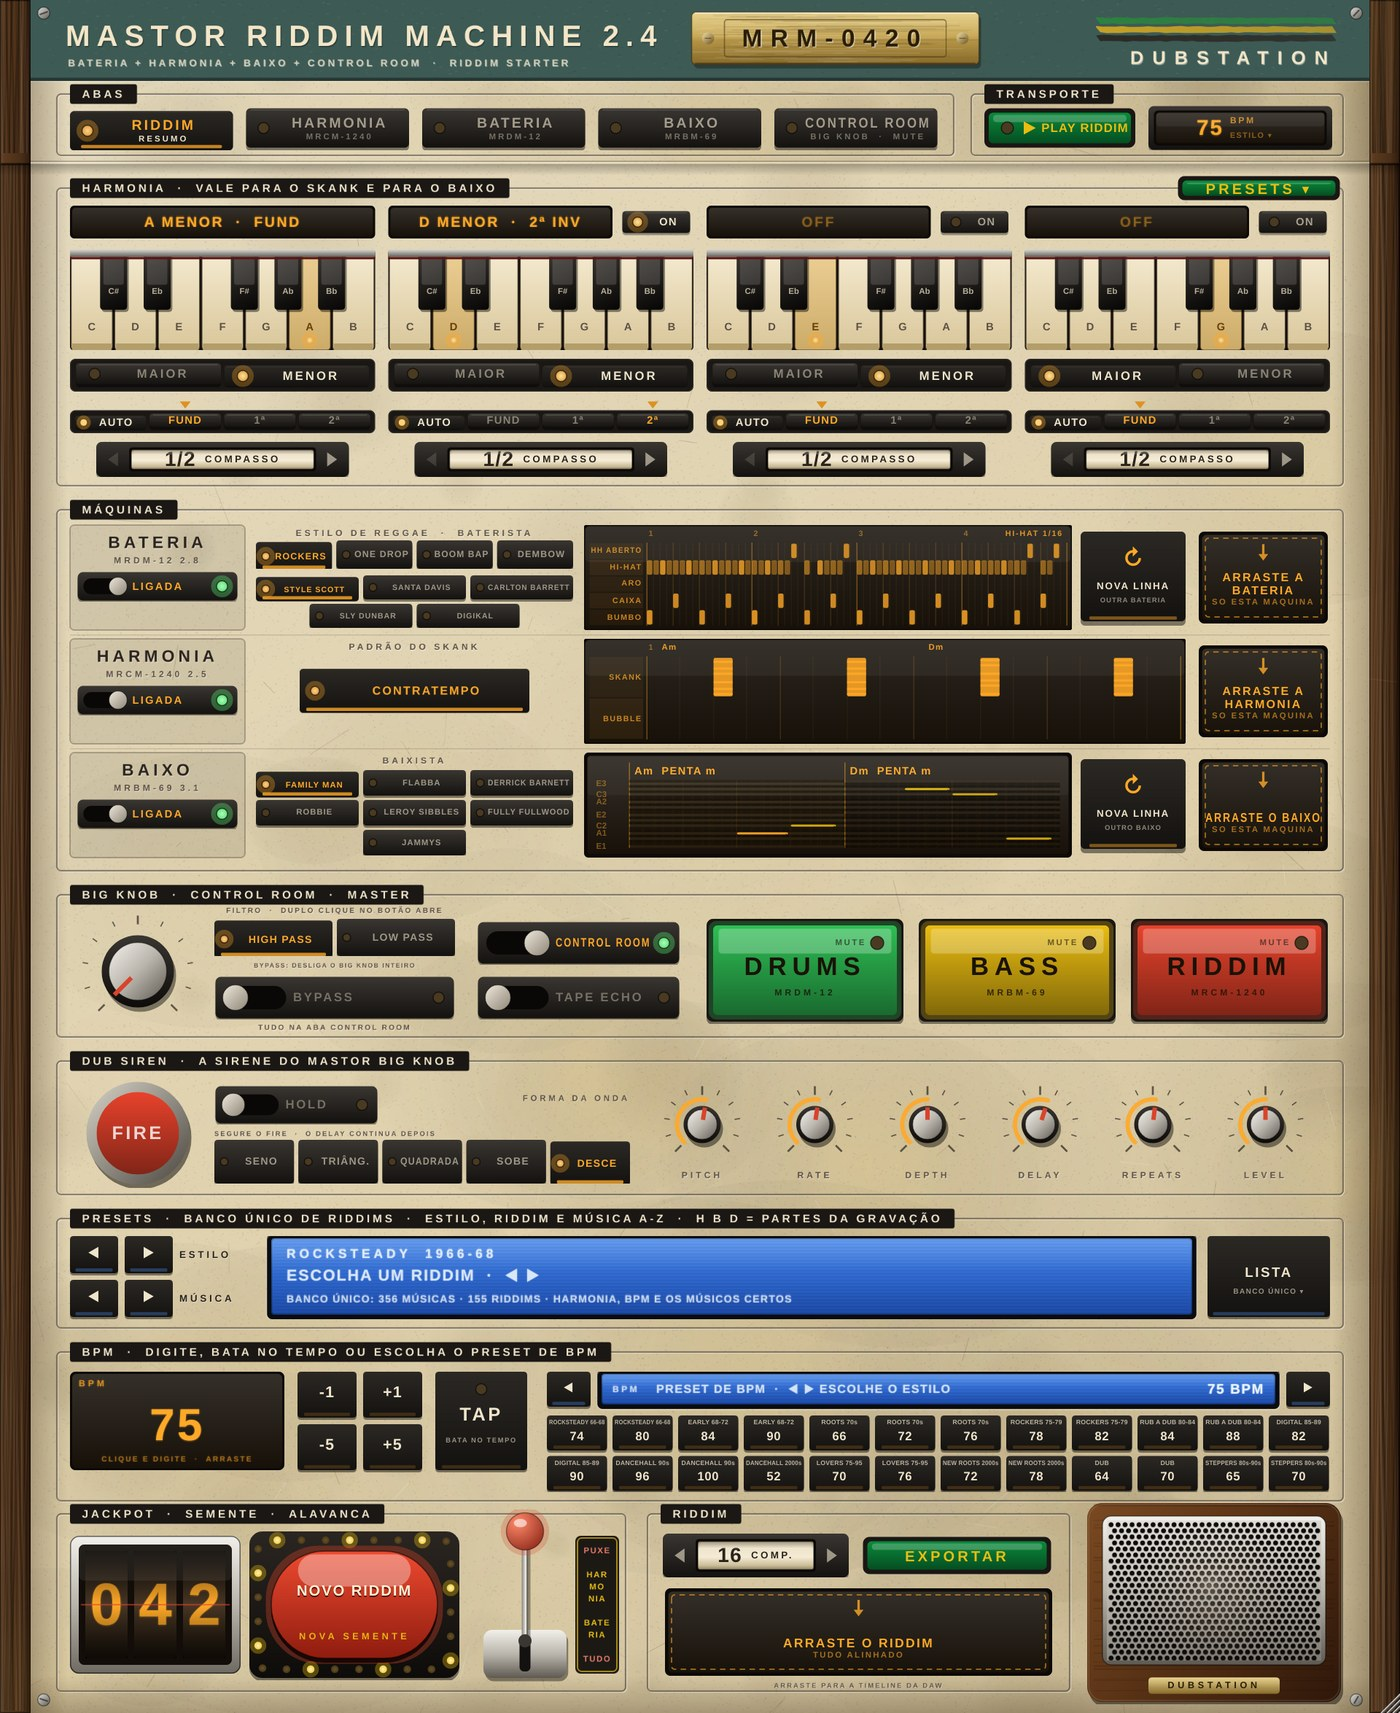
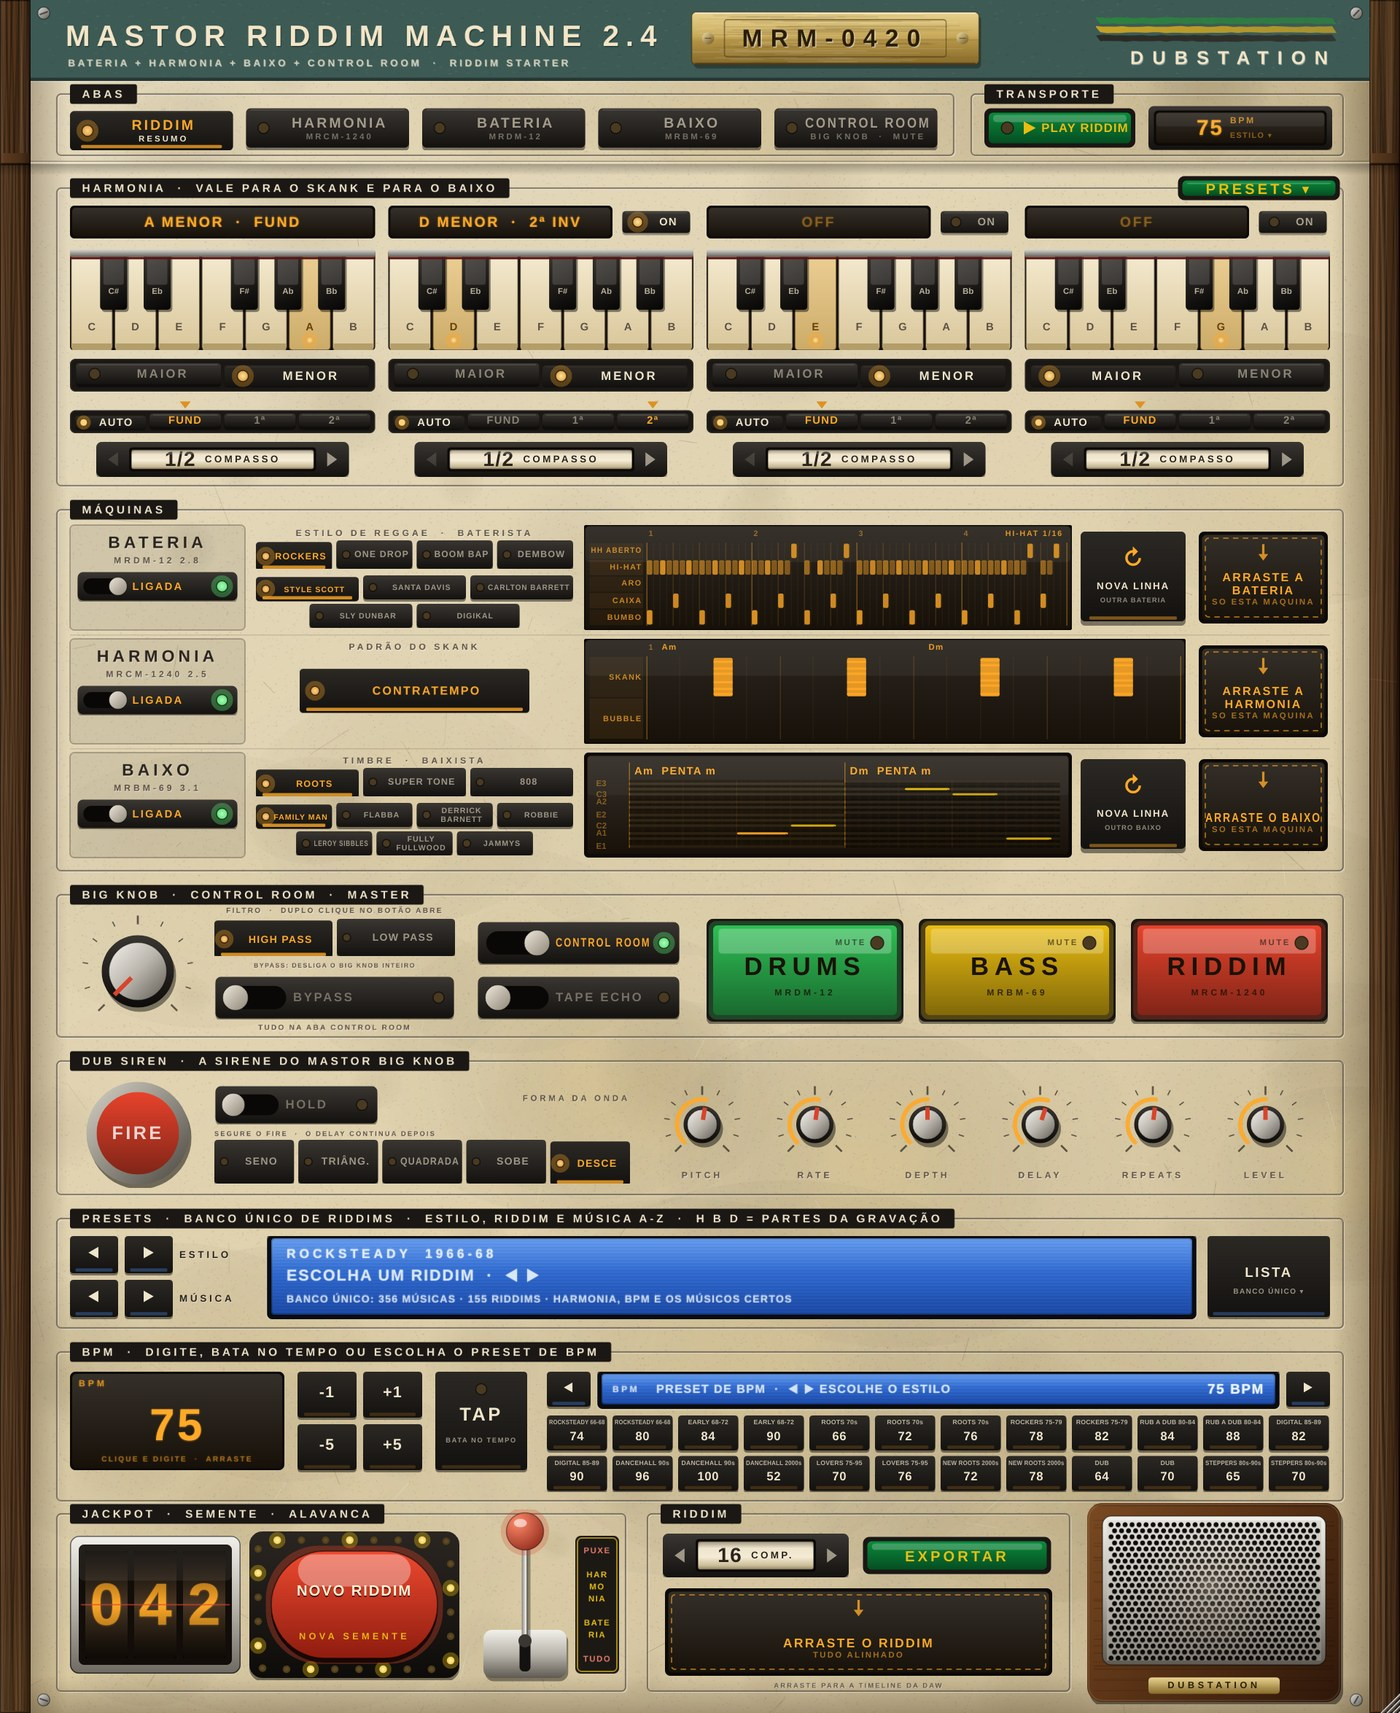
MRM-0420 2.4: seletor de TIMBRE do baixo (ROOTS, SUPER TONE, 808) na aba RIDDIM
Claude-Session: https://claude.ai/code/session_01DJAeyZsyaf8hh4txo87EyA

Changed region(s): [[0.1843, 0.4332, 0.3993, 0.526]]

diff --git a/site/machines.html b/site/machines.html
@@ -352,6 +352,7 @@
                 <p><strong>Bateria, harmonia, baixo e o Big Knob num instrumento só.</strong> O MRDM-12, o MRCM-1240 e o MRBM-69 tocam juntos com uma harmonia e um BPM; a aba RIDDIM resume tudo e o riddim começa em segundos.</p>
               </div>
               <ul>
+              <li>TIMBRE do baixo na aba RIDDIM: ROOTS, SUPER TONE (o Casio da era Sleng Teng) ou 808</li>
               <li>BANCO ÚNICO DE RIDDIMS nos PRESETS e na ALAVANCA: 356 músicas em 10 estilos e 155 riddims de A a Z, a música inteira nas três máquinas (harmonia, BPM, kit, baterista e baixista), com as luzes H B D</li>
                 <li>Aba RIDDIM: acordes, chave e músicos de cada máquina, MIDI editável e arrastável por máquina</li>
                 <li>JACKPOT com o botão NOVO RIDDIM e a ALAVANCA: riddim 100% aleatório (harmonia, durações, bateria, músicos) pronto para o PLAY</li>

diff --git a/RiddimMachine/Source/MrmMain.cpp b/RiddimMachine/Source/MrmMain.cpp
@@ -1407,8 +1407,11 @@ MainPage::MainPage (MrmProcessor& p)
     {
         juce::StringArray bassists;
         for (int s = 0; s < mbm::NumStyles; ++s) bassists.add (mbm::styleName (s));
-        rows[MrmProcessor::Bass].musicians = std::make_unique<MusicianKeys> (*b.apvts.getParameter ("style"), bassists, 3);
+        rows[MrmProcessor::Bass].musicians = std::make_unique<MusicianKeys> (*b.apvts.getParameter ("style"), bassists, 4);
     }
+    // baixo: o timbre do MRBM-69 (os do MRDBI-07), com o SUPER TONE do Sleng Teng
+    bassTimbre = std::make_unique<MusicianKeys> (*b.apvts.getParameter ("timbre"), juce::StringArray { "ROOTS", "SUPER TONE", "808" }, 3);
+    addAndMakeVisible (*bassTimbre);
     rows[MrmProcessor::Drums].lane  = &drumLane;
     rows[MrmProcessor::Chords].lane = &chordLane;
     rows[MrmProcessor::Bass].lane   = &bassLane;
@@ -1601,7 +1604,7 @@ void MainPage::resized()
         row.power->setBounds (70, y + 42, 148, 28);
         row.undo.setBounds (70, y + 74, 148, 18);
         if (row.musicians)
-            row.musicians->setBounds (m == MrmProcessor::Drums ? juce::Rectangle<int> (234, y + 46, 290, 48) : juce::Rectangle<int> (234, y + 16, 290, 78));
+            row.musicians->setBounds (m != MrmProcessor::Chords ? juce::Rectangle<int> (234, y + 46, 290, 48) : juce::Rectangle<int> (234, y + 16, 290, 78));
         const bool newKey = m != MrmProcessor::Chords;   // NOVA LINHA na bateria e no baixo
         row.lane->setBounds (534, y, newKey ? 446 : 550, 96);
         if (newKey) (m == MrmProcessor::Drums ? newDrums : newBass)->setBounds (986, y + 4, 100, 88);
@@ -1609,6 +1612,7 @@ void MainPage::resized()
     }
 
     drumStyle->setBounds (234, 330 + 14, 290, 26);
+    bassTimbre->setBounds (234, 330 + 2 * 104 + 14, 290, 26);
 
     // big knob · control room
     bigKnob->setBounds (70, 684, 112, 108);
@@ -1722,7 +1726,7 @@ void MainPage::renderBackground()
     const char* names[]  = { "BATERIA", "HARMONIA", "BAIXO" };
     const juce::String models[] = { juce::String ("MRDM-12 ") + MRM_DRUMS_VER, juce::String ("MRCM-1240 ") + MRM_CHORDS_VER,
                                     juce::String ("MRBM-69 ") + MRM_BASS_VER };
-    const char* players[] = { "ESTILO DE REGGAE  \xc2\xb7  BATERISTA", "PADR\xc3\x83O DO SKANK", "BAIXISTA" };
+    const char* players[] = { "ESTILO DE REGGAE  \xc2\xb7  BATERISTA", "PADR\xc3\x83O DO SKANK", "TIMBRE  \xc2\xb7  BAIXISTA" };
     for (int m = 0; m < MrmProcessor::NumMachines; ++m)
     {
         const auto& row = rows[(size_t) m];

diff --git a/RiddimMachine/Source/MrmMain.h b/RiddimMachine/Source/MrmMain.h
@@ -366,6 +366,7 @@ private:
     juce::TextButton exportBtn { "EXPORTAR" };
     std::unique_ptr<PowerSwitch> fxPower, echoPower;
     std::unique_ptr<MusicianKeys> drumStyle, filterMode;   // estilo de reggae da bateria; HIGH/LOW PASS do Big Knob
+    std::unique_ptr<MusicianKeys> bassTimbre;              // TIMBRE do baixo: ROOTS, SUPER TONE (Casio da era digital) ou 808
     std::unique_ptr<BigDial> bigKnob;
     std::unique_ptr<PowerSwitch> knobBypass, sirenHold;                 // BYPASS do Big Knob; HOLD da sirene
     std::unique_ptr<SirenFire> sirenFire;

diff --git a/RiddimMachine/RELEASE_NOTES.md b/RiddimMachine/RELEASE_NOTES.md
@@ -2,6 +2,7 @@
 
 - **BANCO ÚNICO DE RIDDIMS nos PRESETS da aba RIDDIM:** 356 músicas em 10 estilos e 155 riddims de A a Z, o mesmo banco do MRCM-1240, do MRDM-12 e do MRBM-69 (`RiddimBank/`). A música vai inteira para as três máquinas: harmonia conferida, BPM, kit, baterista e baixista mais próximos de quem gravou
 - Visor azul com o estilo e os anos, a música, os acordes, o BPM (ORIGINAL quando medido), o kit, os músicos e as **luzes H B D** (harmonia, baixo e bateria da gravação original). ◀ ▶ passam por estilo e por música; LISTA e PRESETS abrem **ESTILOS · RIDDIMS A–Z · MÚSICAS A–Z** e a opção **Só completos**
+- **TIMBRE do baixo na aba RIDDIM:** ROOTS, **SUPER TONE** (o baixo digital Casio da era Sleng Teng) ou 808, direto na linha do BAIXO, acima dos baixistas
 - **ALAVANCA** sorteia uma música do banco (só ROCKERS e ONE DROP: caixa no 2 e no 4)
 - Projetos antigos abrem igual: o preset antigo aparece como a música certa do banco
 - Teste novo `mrm_render banco`: as 321 músicas com harmonia carregam certo nas três máquinas e ficam salvas no projeto
